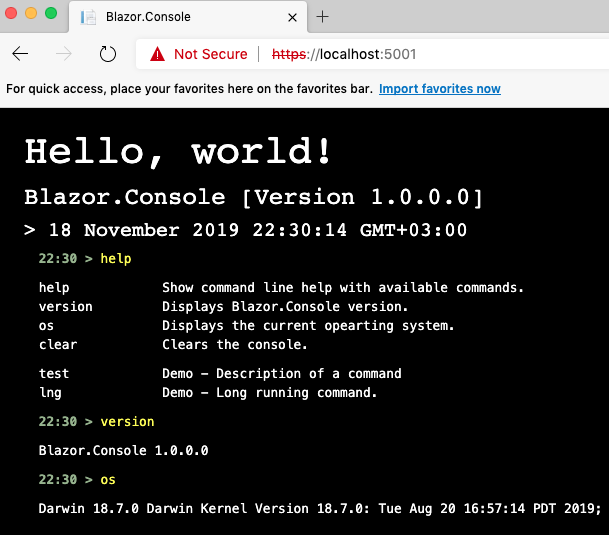
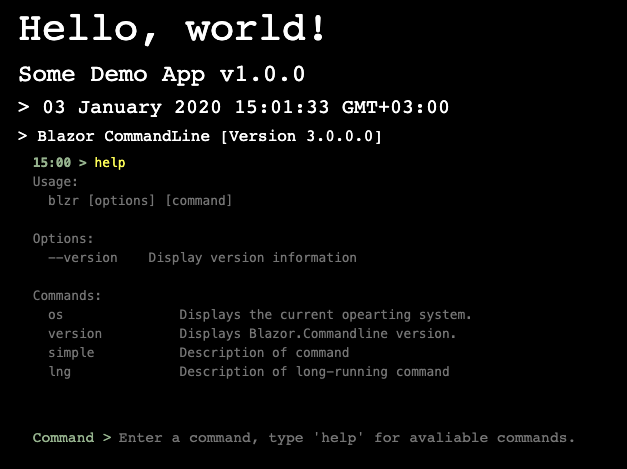
Read me...

diff --git a/README.md b/README.md
@@ -40,12 +40,24 @@ Add <BlazorCommandLine> tag into needed view file(ex: Index.razor)
 
 ```html
 @page "/"
+@using Blazor.CommandLine
+@using Blazor.Components.CommandLine
+@using Blazor.Components.CommandLine.Console
+
 <h1>Hello, world!</h1>
 
 <BlazorCommandLine @ref="console" Name="Some Demo App v1.0.0"/>
 ```
 
+And to have fancy UI add CSS to host file, _HOST.cshtml
 
+```html
+<link href="Blazor.CommandLine/styles.css" rel="stylesheet" />
+```
+
+<p align="center">
+    <img src="https://github.com/ardacetinkaya/Blazor.Console/blob/master/screenshots/2.png" />
+</p>
 
 ### Commands ###
 
@@ -60,6 +72,8 @@ To implement the command's main execution just override Execute() or ExecuteAsyn
 @using Blazor.CommandLine
 @using Blazor.Components.CommandLine
 @using Blazor.Components.CommandLine.Console
+
+@inject IRunningCommand RunningCommand
 
 <h1>Hello, world!</h1>
 
@@ -118,6 +132,10 @@ To implement the command's main execution just override Execute() or ExecuteAsyn
     }
 }
 ```
+
+<p align="center">
+    <img src="https://github.com/ardacetinkaya/Blazor.Console/blob/master/screenshots/3.png" />
+</p>
 
 ### References ###
 - Some commands might be long running tasks, Blazor.CommandLine use some features of a great component for this kind of requirement. Please also check  https://github.com/h3x4d3c1m4l/Blazor.LoadingIndicator if you need a loading indicator for a Blazor app.
